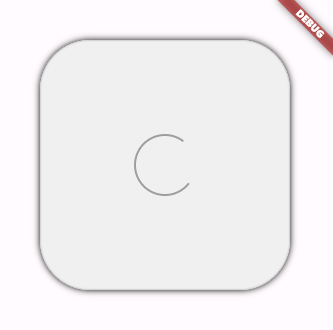
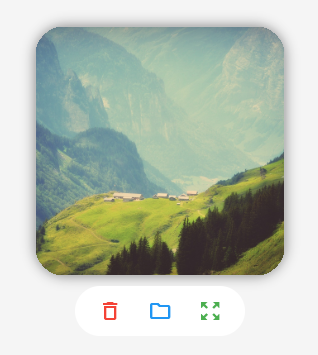
version 4.1.1

diff --git a/example/lib/main.dart b/example/lib/main.dart
@@ -13,7 +13,7 @@ class MyApp extends StatefulWidget {
 }
 
 class _MyAppState extends State<MyApp> {
-  final List<ImageController> imageControllers = List.generate(2, (_) => ImageController());
+  final List<ImageController> imageControllers = List.generate(3, (_) => ImageController());
 
   _listener() { try{ setState(() {}); } catch(e) { null; } }
 
@@ -33,26 +33,31 @@ class _MyAppState extends State<MyApp> {
     }
   }
 
-  static const String _urlImage = 'https://i.imgur.com/f1fRugF.jpeg';
+  static const String _urlImage = 'https://w.wallhaven.cc/full/49/wallhaven-49d5y8.jpg';
+  // static const String _urlImage = 'https://i.imgur.com/f1fRugF.jpeg';
   static const String _assetImage = 'assets/flutter_logo.png';
 
   BoxDecoration get _decoration =>
   BoxDecoration(
-    color         : Colors.white,
-    borderRadius  : BorderRadius.circular(20),
+    color         : Color(0xFFf1f1f1),
+    borderRadius  : BorderRadius.circular(30),
     border        :
     Border.all(
-      width: 2,
-      color: Colors.grey.shade600,
-      style: BorderStyle.solid,
-      strokeAlign: BorderSide.strokeAlignOutside
+      width: 1,
+      color: Colors.grey.shade400,
+      style: BorderStyle.solid
     ),
+    boxShadow: [BoxShadow(
+      color: Colors.black45,
+      blurRadius: 10
+    )]
   );
 
   @override
   Widget build(BuildContext context) {
     return MaterialApp(
       debugShowCheckedModeBanner: false,
+      color : Color(0xFFe3e3e3),
       title : 'Pin Board Example',
       home  :
       Scaffold(
@@ -65,11 +70,8 @@ class _MyAppState extends State<MyApp> {
             SingleChildScrollView(
               padding : const EdgeInsets.all(16),
               child   :
-              Wrap(
-                alignment     : WrapAlignment.center,
-                runAlignment  : WrapAlignment.center,
+              Column(
                 spacing       : 40,
-                runSpacing    : 40,
                 children      : [
 
                     Column(
@@ -79,8 +81,8 @@ class _MyAppState extends State<MyApp> {
                         ImageArea(
                           controller      : imageControllers[0],
                           onLoadingImage  : _urlImage,
-                          width           : 200,
-                          height          : 150,
+                          width           : 800,
+                          height          : 200,
                           decoration      : _decoration,
                           onLoadingChild  : Center(child: Text("loading...", style: TextStyle(color: Colors.green)))
                         ),
@@ -90,13 +92,13 @@ class _MyAppState extends State<MyApp> {
                       ],
                     ),
 
-                    Column(
-                      mainAxisSize  : MainAxisSize.min,
-                      spacing       : 10,
-                      children      : [
+                    Row(
+                      mainAxisSize: MainAxisSize.min,
+                      spacing: 40,
+                      children: [
                         ImageArea.square(
                           controller  : imageControllers[1],
-                          dimension   : 200,
+                          dimension   : 150,
                           decoration  : _decoration,
                           emptyChild  :
                           Center(
@@ -104,33 +106,24 @@ class _MyAppState extends State<MyApp> {
                             InkWell(
                               onTap: () => imageControllers[1].pickImage(),
                               child:
-                              Text(
-                                "Click here to open the picker",
-                                textAlign : TextAlign.center,
-                                style     :
-                                TextStyle(
-                                  color     : Colors.blue.shade600,
-                                  fontWeight: FontWeight.w500
-                                )
-                              ),
+                              Icon(
+                                Icons.file_upload_outlined,
+                                size  : 50,
+                                color : Colors.grey,
+                              )
                             ),
                           ),
                         ),
-                        _Controlls(
-                          controller: imageControllers[1]
-                        )
+                        ImageArea.square(
+                          dimension     : 150,
+                          padding       : const EdgeInsets.all(20),
+                          decoration    : _decoration,
+                          onLoadingImage: _assetImage,
+                        ),
                       ],
                     ),
 
-                    SizedBox(
-                      width   : 100,
-                      height  : 200,
-                      child   :
-                      ImageArea.expand(
-                        decoration      : _decoration,
-                        onLoadingImage  : _assetImage,
-                      ),
-                    ),
+
 
                 ],
               )
@@ -152,22 +145,29 @@ class _Controlls extends StatelessWidget {
 
   @override
   Widget build(BuildContext context) =>
-  Row(
-    mainAxisSize  : MainAxisSize.min,
-    spacing       : 10,
-    children      : [
-      IconButton(
-        onPressed : controller.hasNoImage ? null : () => controller.removeImage(),
-        icon      : Icon(Icons.delete_outline, color: controller.hasImage ? Colors.red : Colors.grey)
-      ),
-      IconButton(
-        onPressed : () => controller.pickImage(),
-        icon      : Icon(Icons.folder_outlined, color: Colors.blue)
-      ),
-      IconButton(
-        onPressed : controller.hasNoImage ? null : () => controller.preview(context),
-        icon      : Icon(Icons.image_outlined, color: Colors.green)
-      ),
-    ],
+  Container(
+    padding: const EdgeInsets.symmetric(horizontal: 15, vertical: 5),
+    decoration: BoxDecoration(
+      color: Colors.white,
+      borderRadius: BorderRadius.circular(25)
+    ),
+    child: Row(
+      mainAxisSize  : MainAxisSize.min,
+      spacing       : 10,
+      children      : [
+        IconButton(
+          onPressed : controller.hasNoImage ? null : () => controller.removeImage(),
+          icon      : Icon(Icons.delete_outline, color: controller.hasImage ? Colors.red : Colors.grey)
+        ),
+        IconButton(
+          onPressed : () => controller.pickImage(),
+          icon      : Icon(Icons.folder_outlined, color: controller.hasImage ? Colors.blue : Colors.grey)
+        ),
+        IconButton(
+          onPressed : controller.hasNoImage ? null : () => controller.preview(context),
+          icon      : Icon(Icons.zoom_out_map, color: controller.hasImage ? Colors.green : Colors.grey)
+        ),
+      ],
+    ),
   );
 }

diff --git a/lib/src/presentation/image_zone.dart b/lib/src/presentation/image_zone.dart
@@ -8,7 +8,7 @@ import 'package:file_picker/file_picker.dart' show FilePicker, FileType;
 import 'package:n_image_picker/src/domain/dtos/data_dto.dart' show DataDTO;
 import 'package:n_image_picker/src/domain/ports/platform_port.dart' show PlatformPort;
 import 'package:n_image_picker/src/presentation/image_preview.dart' show showImagePreview;
-import 'package:n_image_picker/src/domain/enums.dart/accepted_formats.dart' show AcceptedFormats;
+import 'package:n_image_picker/src/domain/enums/accepted_formats.dart' show AcceptedFormats;
 import 'package:n_image_picker/src/application/use_cases/image_use_case.dart' show ImageUseCase;
 
 /// Controller class responsible for managing image data and state.
@@ -381,6 +381,12 @@ class ImageArea extends StatefulWidget {
   /// How the image should fit within the container.
   final BoxFit? fit;
 
+  /// Insert headers in the controller
+  final Map<String, String>? headers;
+
+  /// Insert max size in the controller
+  final int? maxSize;
+
   /// Constructs an [ImageArea] with specified width and height.
   const ImageArea({
     this.controller,
@@ -395,6 +401,8 @@ class ImageArea extends StatefulWidget {
     this.onDragChild,
     this.onLoadingChild,
     this.fit,
+    this.headers,
+    this.maxSize,
     super.key
   });
 
@@ -411,6 +419,8 @@ class ImageArea extends StatefulWidget {
     this.onDragChild,
     this.onLoadingChild,
     this.fit,
+    this.headers,
+    this.maxSize,
     super.key
   }) :
   width   = dimension,
@@ -428,6 +438,8 @@ class ImageArea extends StatefulWidget {
     this.onDragChild,
     this.onLoadingChild,
     this.fit,
+    this.headers,
+    this.maxSize,
     super.key
   }) :
   width   = double.infinity,
@@ -488,8 +500,12 @@ class _ImageZoneState extends State<ImageArea> {
     if(widget.controller == null) {
       controller = ImageController();
       // Add listener to update UI on state changes.
+      if(widget.headers != null) controller.updateHeaders(widget.headers!);
+      if(widget.maxSize != null) controller.updateMaxSize(widget.maxSize!);
       controller.addListener(_listener);
     } else {
+      if(widget.headers != null) widget.controller?.updateHeaders(widget.headers!);
+      if(widget.maxSize != null) widget.controller?.updateMaxSize(widget.maxSize!);
       // If controller is provided, attach drag-drop listeners and zones for web/wasm.
       attachAndListenDropZone();
     }
@@ -559,6 +575,7 @@ class _ImageZoneState extends State<ImageArea> {
               controller.bytes!,
               fit           : widget.fit ?? BoxFit.cover,
               isAntiAlias   : true,
+              filterQuality : FilterQuality.high,
             );
           }
         }

diff --git a/lib/src/infraestructure/adapters/platform_html_adapter.dart b/lib/src/infraestructure/adapters/platform_html_adapter.dart
@@ -1,12 +1,13 @@
 import 'dart:async' show Completer;
 import 'dart:typed_data' show ByteBuffer, Uint8List;
 import 'package:web/web.dart' as web show DragEvent, ElementEventGetters, File, FileReader, FileReaderEventGEtters, HTMLElement, document;
+
 import 'package:flutter/material.dart' show Size, Offset;
 import 'package:flutter/src/rendering/box.dart' show RenderBox;
-import 'package:n_image_picker/n_image_picker.dart' show ImageController;
 
+import 'package:n_image_picker/n_image_picker.dart' show ImageController;
 import 'package:n_image_picker/src/domain/ports/platform_port.dart' show PlatformPort;
-import 'package:n_image_picker/src/domain/enums.dart/accepted_formats.dart' show AcceptedFormats;
+import 'package:n_image_picker/src/domain/enums/accepted_formats.dart' show AcceptedFormats;
 
 /// Adapter implementation of [PlatformPort] for HTML platform using web APIs.
 /// This class handles drag-and-drop image loading functionality in a web environment.

diff --git a/lib/src/application/use_cases/image_use_case.dart b/lib/src/application/use_cases/image_use_case.dart
@@ -8,7 +8,7 @@ import 'package:file_picker/file_picker.dart' show PlatformFile;
 import 'package:n_image_picker/n_image_picker.dart' show ImageController;
 import 'package:n_image_picker/src/domain/dtos/data_dto.dart' show DataDTO;
 import 'package:n_image_picker/src/domain/ports/platform_port.dart' show PlatformPort;
-import 'package:n_image_picker/src/domain/enums.dart/resize_formats.dart' show ResizeFormats;
+import 'package:n_image_picker/src/domain/enums/resize_formats.dart' show ResizeFormats;
 
 class ImageUseCase{
 

diff --git a/example/macos/Flutter/GeneratedPluginRegistrant.swift b/example/macos/Flutter/GeneratedPluginRegistrant.swift
@@ -6,9 +6,7 @@ import FlutterMacOS
 import Foundation
 
 import file_picker
-import file_selector_macos
 
 func RegisterGeneratedPlugins(registry: FlutterPluginRegistry) {
   FilePickerPlugin.register(with: registry.registrar(forPlugin: "FilePickerPlugin"))
-  FileSelectorPlugin.register(with: registry.registrar(forPlugin: "FileSelectorPlugin"))
 }

diff --git a/example/windows/flutter/generated_plugin_registrant.cc b/example/windows/flutter/generated_plugin_registrant.cc
@@ -6,9 +6,6 @@
 
 #include "generated_plugin_registrant.h"
 
-#include <file_selector_windows/file_selector_windows.h>
 
 void RegisterPlugins(flutter::PluginRegistry* registry) {
-  FileSelectorWindowsRegisterWithRegistrar(
-      registry->GetRegistrarForPlugin("FileSelectorWindows"));
 }

diff --git a/README.md b/README.md
@@ -7,26 +7,22 @@
 </p>
 
 <p align="center">
-    <img src="https://raw.githubusercontent.com/nycm1989/nImagePicker/main/screens/1.png" alt="" style="width:300px;">
-    <img src="https://raw.githubusercontent.com/nycm1989/nImagePicker/main/screens/2.png" alt="" style="width:300px;">
+    <img src="https://raw.githubusercontent.com/nycm1989/nImagePicker/main/screens/1.png" alt="">
 </p>
 
-<p align="center">
-    <img src="https://raw.githubusercontent.com/nycm1989/nImagePicker/main/screens/3.png" alt="" style="width:300px;">
-    <img src="https://raw.githubusercontent.com/nycm1989/nImagePicker/main/screens/4.png" alt="" style="width:300px;">
-</p>
+## Formats
+### Supported formats
 
+```
+jpg, jpeg, png, gif, bmp, tiff, tga, pvr, ico, webp, psd, exr, pnm
+```
 
-<p align="center">
-    <img src="https://raw.githubusercontent.com/nycm1989/nImagePicker/main/screens/5.png" alt="" style="height:300px;">
-</p>
+### Resize formats
+```
+bmp, cur, jpg, png, pvr, tga, tiff
+```
 
-<p align="center">ImageArea becomes a Drag-and-Drop area on the web if readOnly = false.</p>
-<p align="center">
-    <img src="https://raw.githubusercontent.com/nycm1989/nImagePicker/main/screens/6.png" alt="" style="width:300px;">
-</p>
-
--## With this widget, you can:
+## With this widget, you can:
 This plugin provides a cross‑platform way to handle image selection and display in Flutter.
 - Provide URL images
 - Provide assets images
@@ -147,6 +143,8 @@ controller.updateMaxSize(int);
 
 
 
+## How to use it
+
 ### 1. Create a controller and add a listener
 
 ```dart
@@ -172,7 +170,7 @@ void dispose() {
 ```dart
 ImageArea(
     /// The controller managing image state and data.
-    required controller: ImageController
+    controller: ImageController | null
 
     /// Decoration for the container.
     required decoration: BoxDecoration?
@@ -213,14 +211,17 @@ ImageArea.square(
     /// The controller managing image state and data.
     required controller: ImageController
 
+    /// Optional URL or path to an image to load on initialization.
+    onLoadingImage: String | null
+
     /// Width of the container.
     required dimension: double
 );
 
 /// Creates an [ImageArea] that expands to fill available space.
 ImageArea.expand(
-    /// The controller managing image state and data.
-    required controller: ImageController
+    /// Optional URL or path to an image to load on initialization.
+    onLoadingImage: String | null
 );
 ```
 

diff --git a/CHANGELOG.md b/CHANGELOG.md
@@ -1,3 +1,7 @@
+## 4.1.1
+* [Fix] hasImage has been fixed
+* [New] headers and maxsize can be setted inside ImageArea
+
 ## 4.1.0
 * [Fix] hasImage has been fixed
 * [Fix] controller is nulleable now
